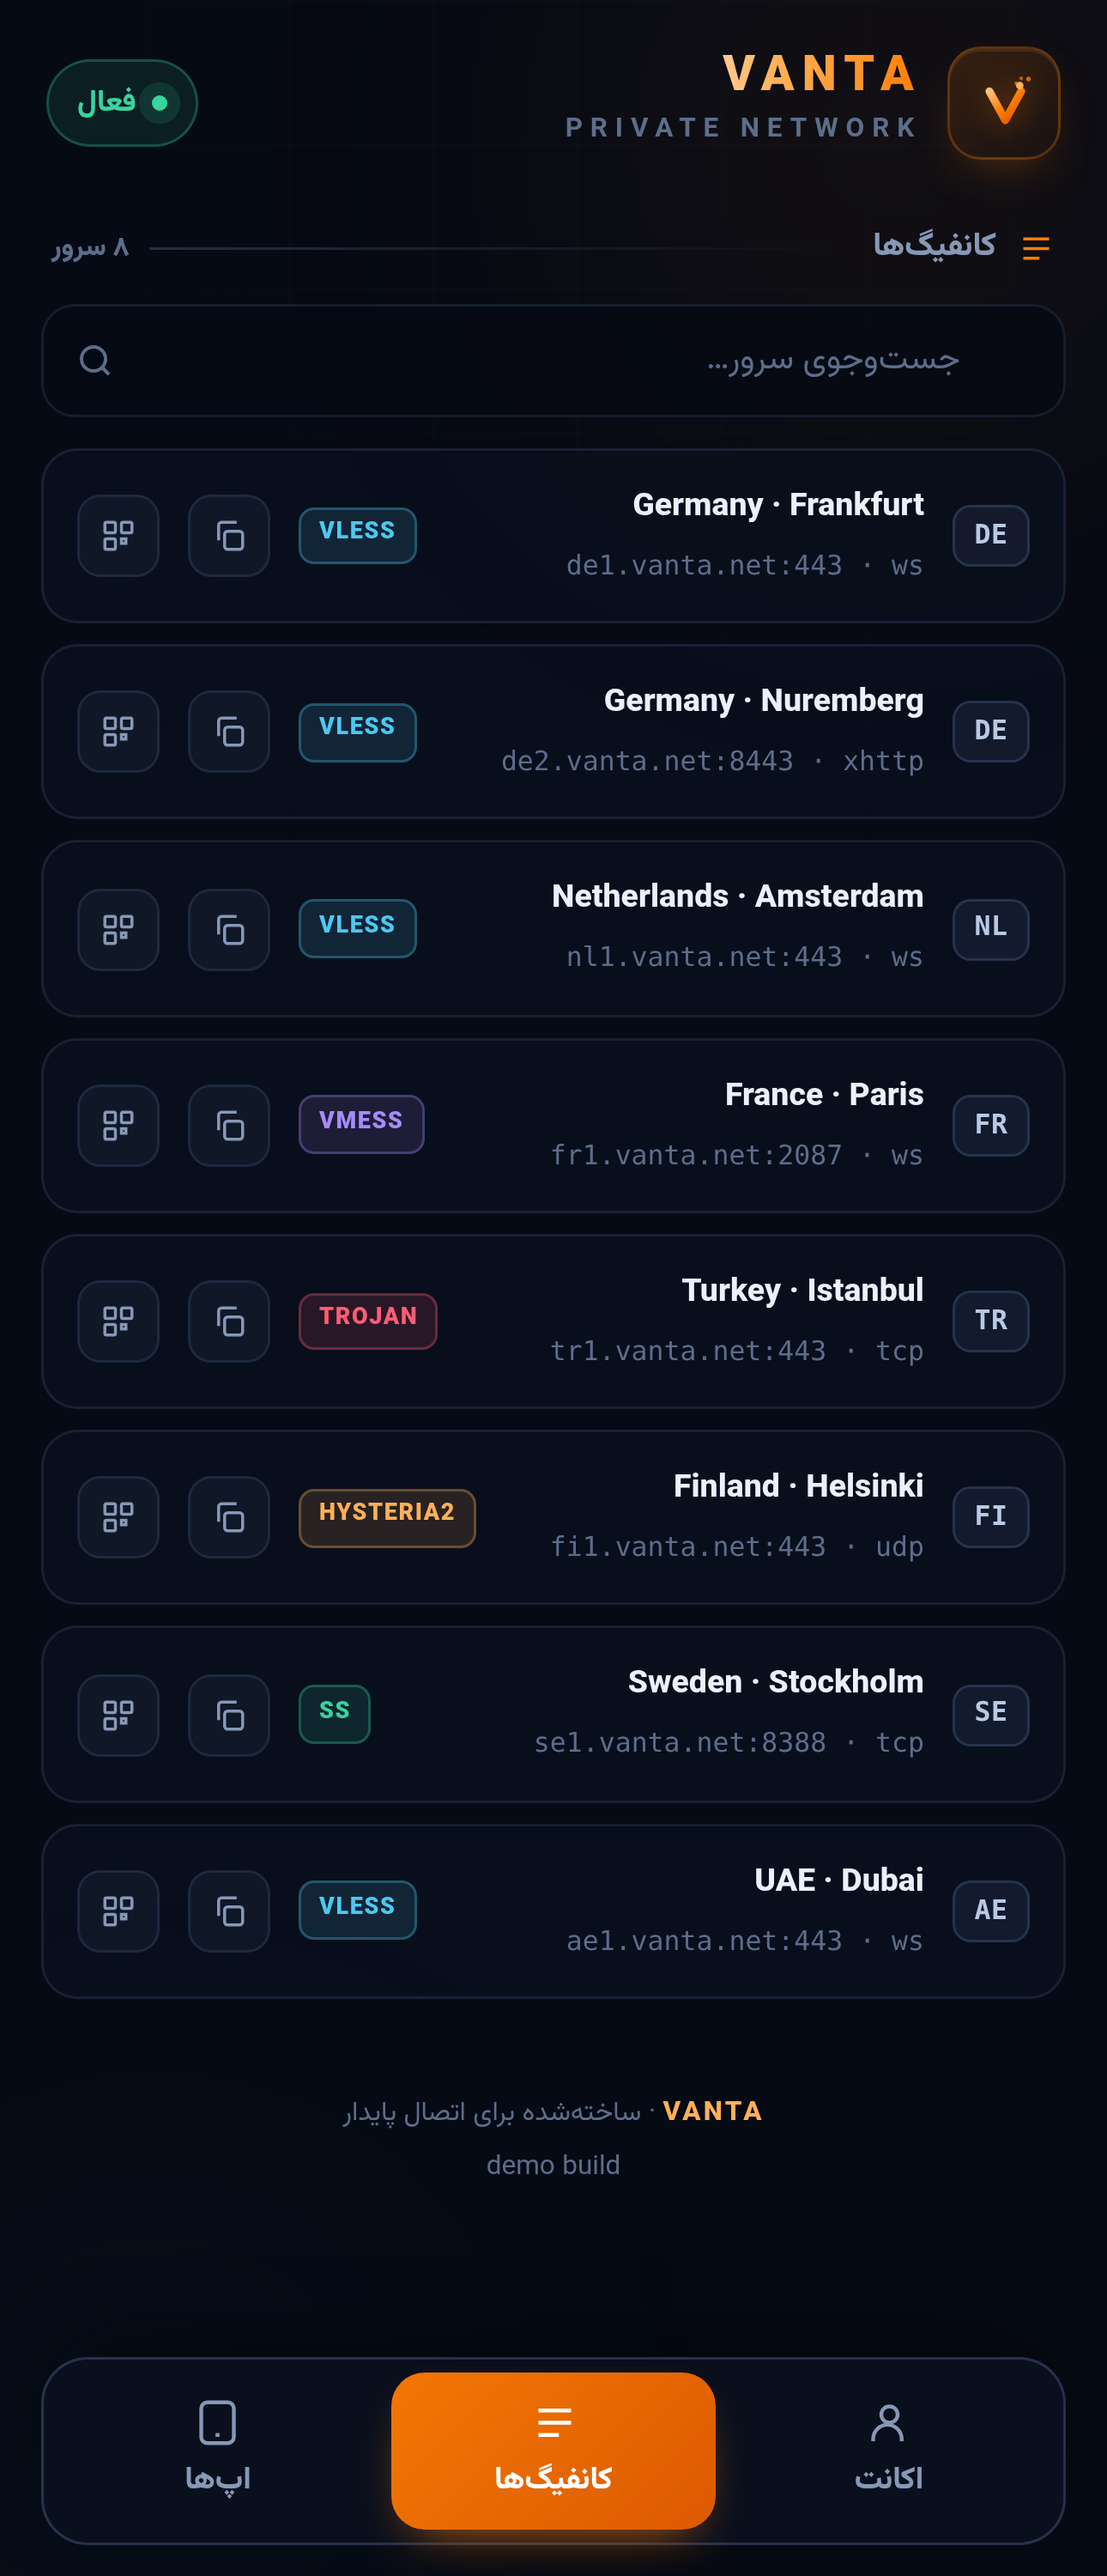
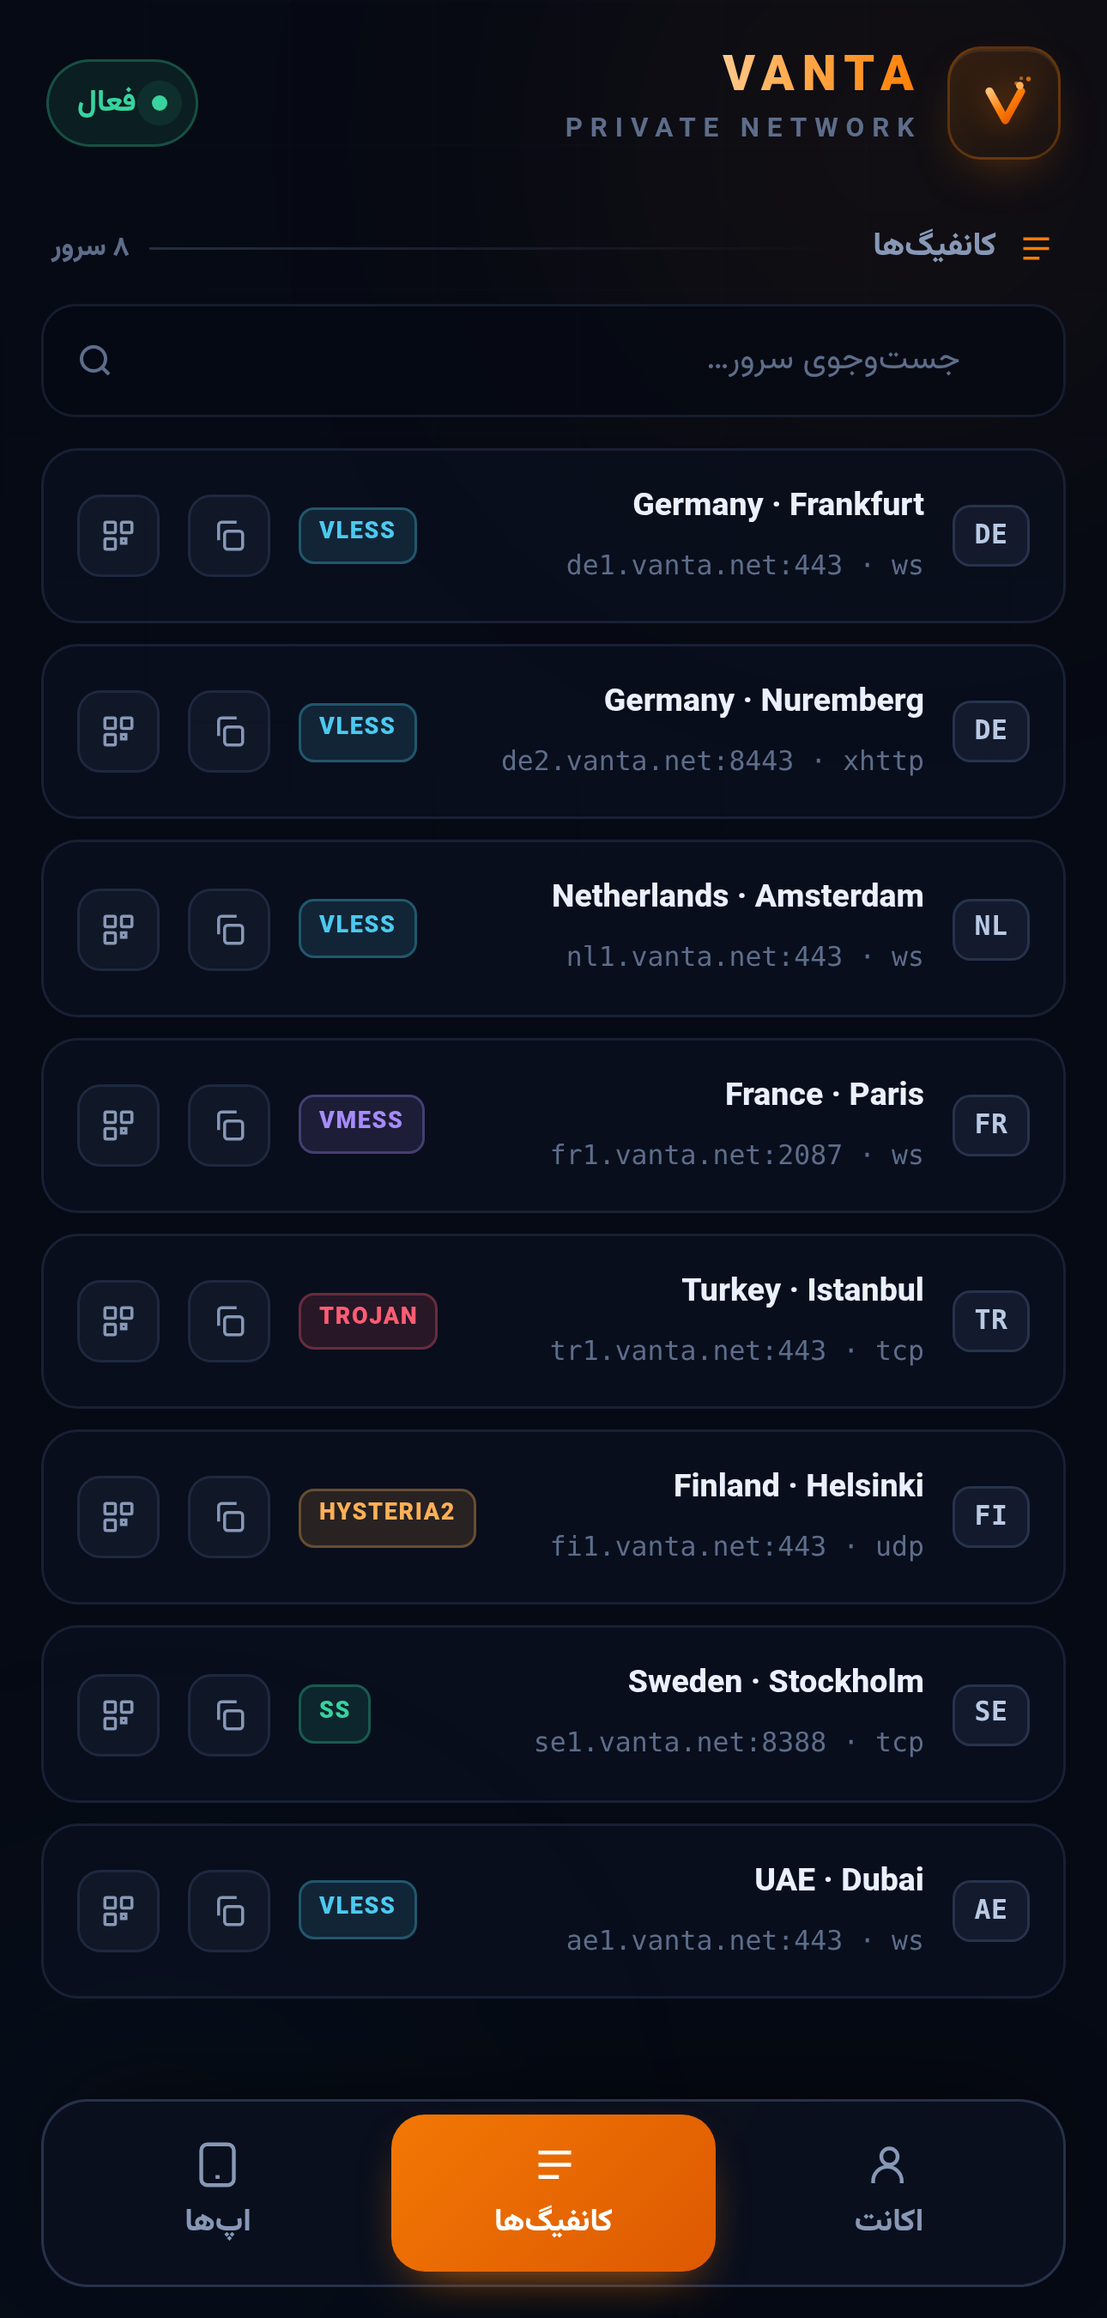
README: side-by-side screenshots, remove stray capture

diff --git a/README.md b/README.md
@@ -8,7 +8,9 @@
 </p>
 
 <p align="center">
-  <img src="docs/home.png" width="330" alt="VANTA — account view">
+  <img src="docs/home.png" width="260" alt="VANTA — account view">
+  &nbsp;&nbsp;
+  <img src="docs/configs.png" width="260" alt="VANTA — configs view">
 </p>
 
 ---
